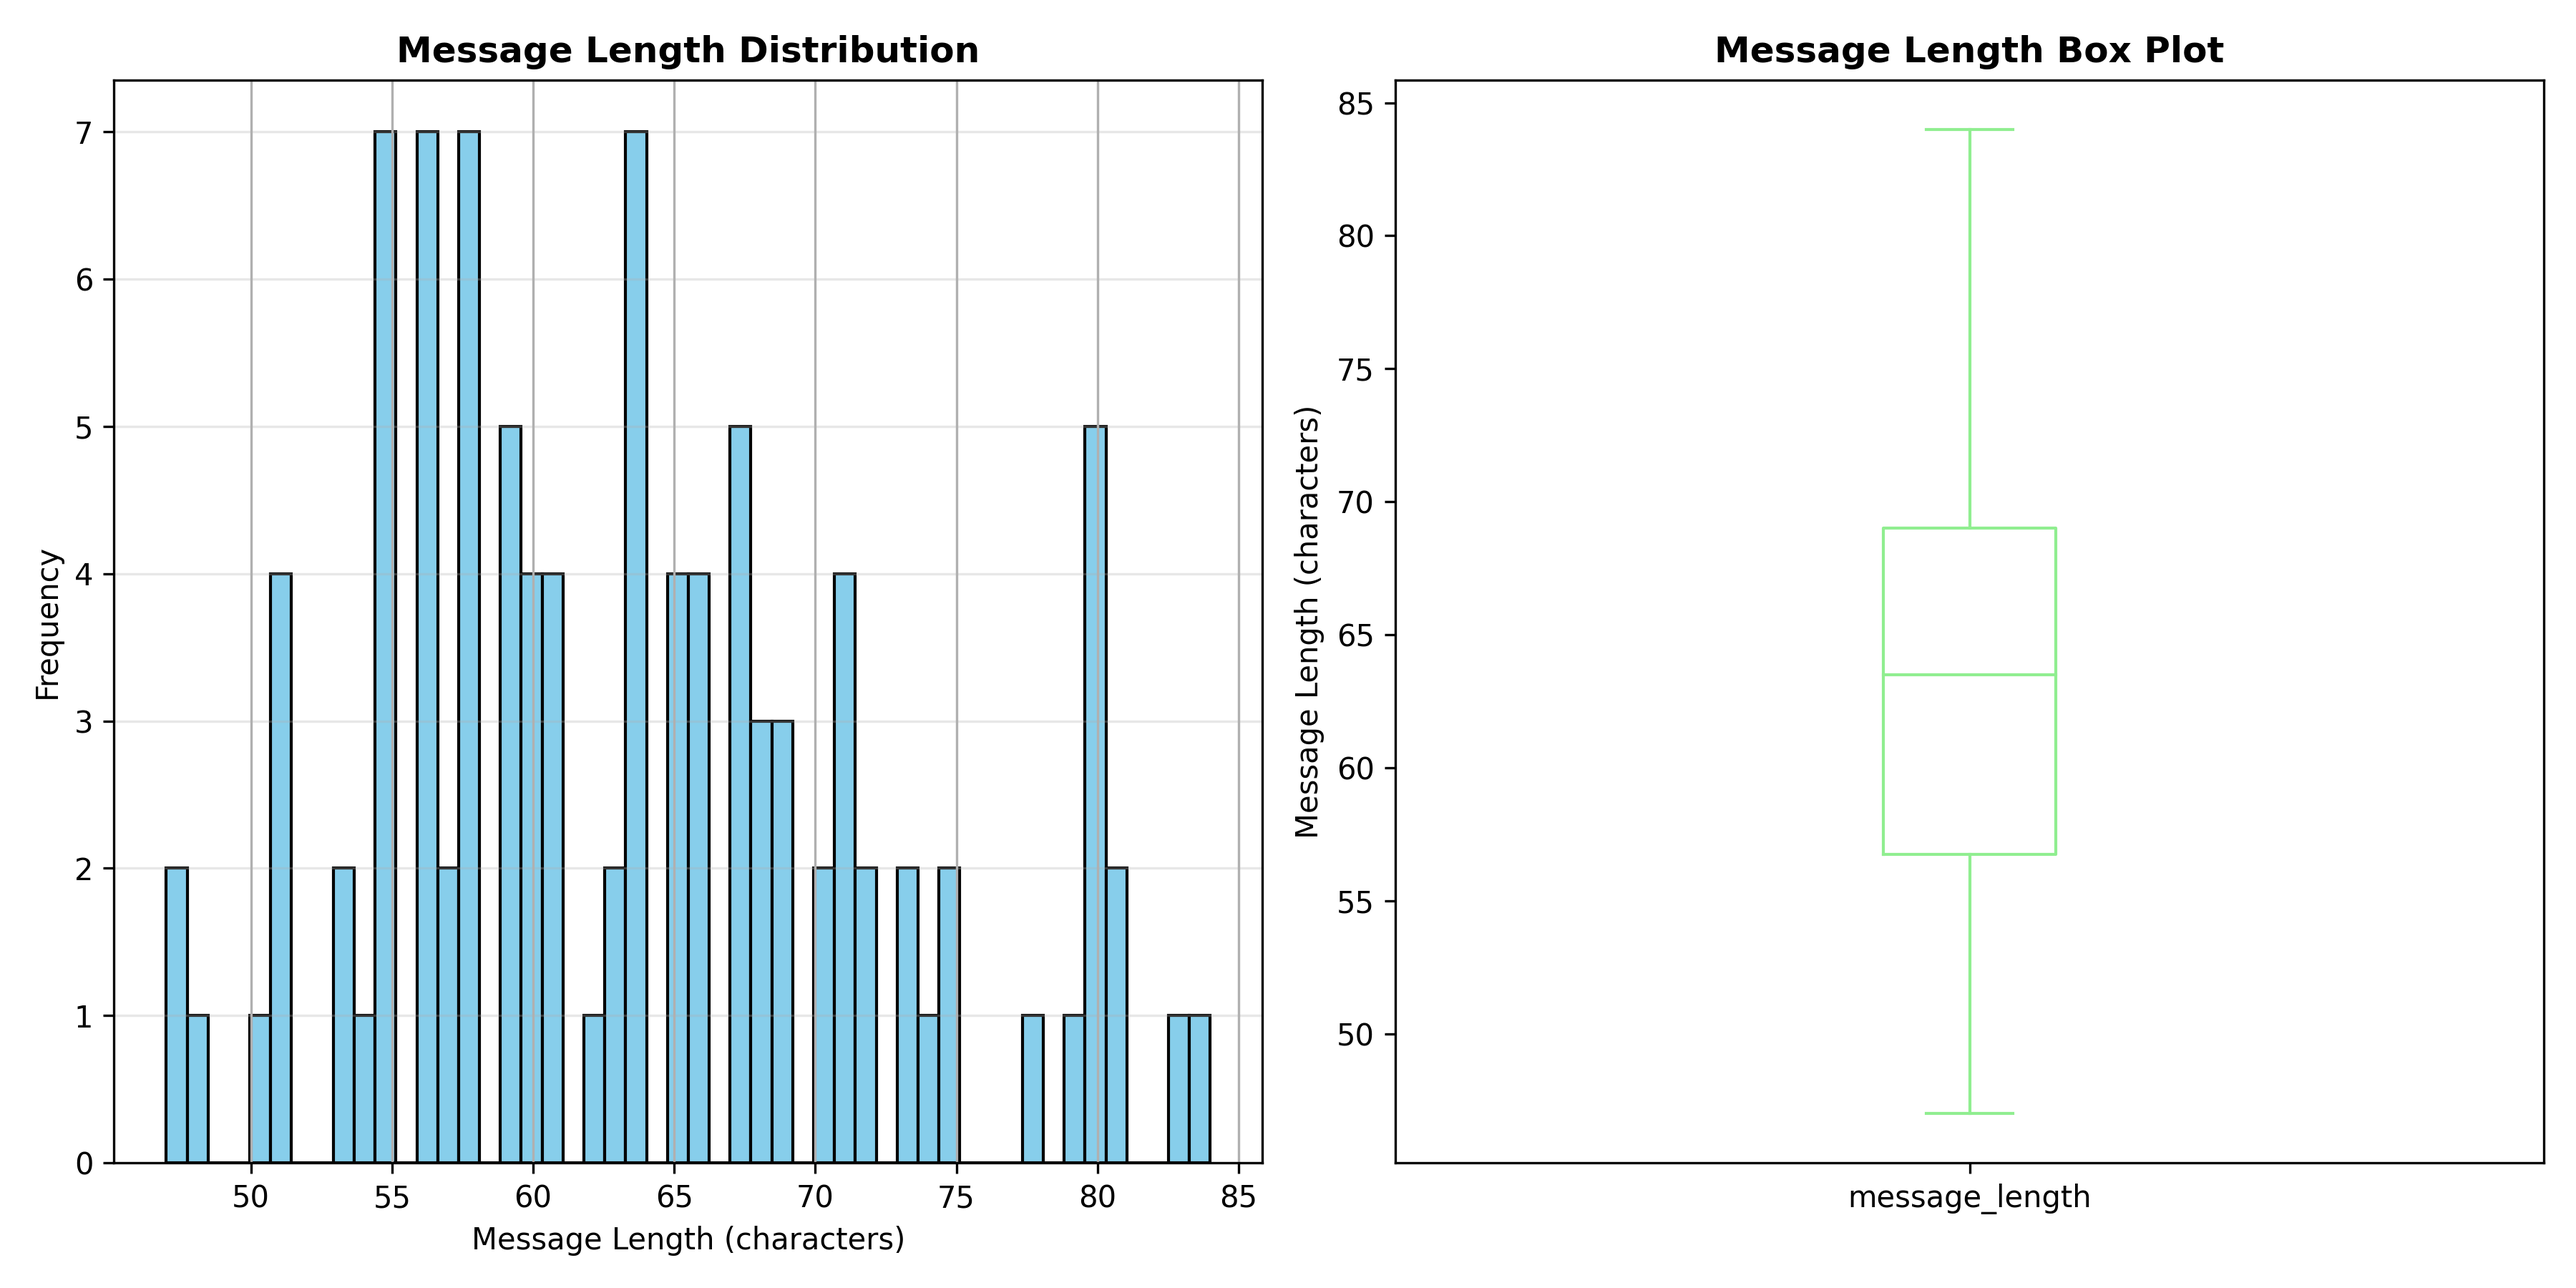
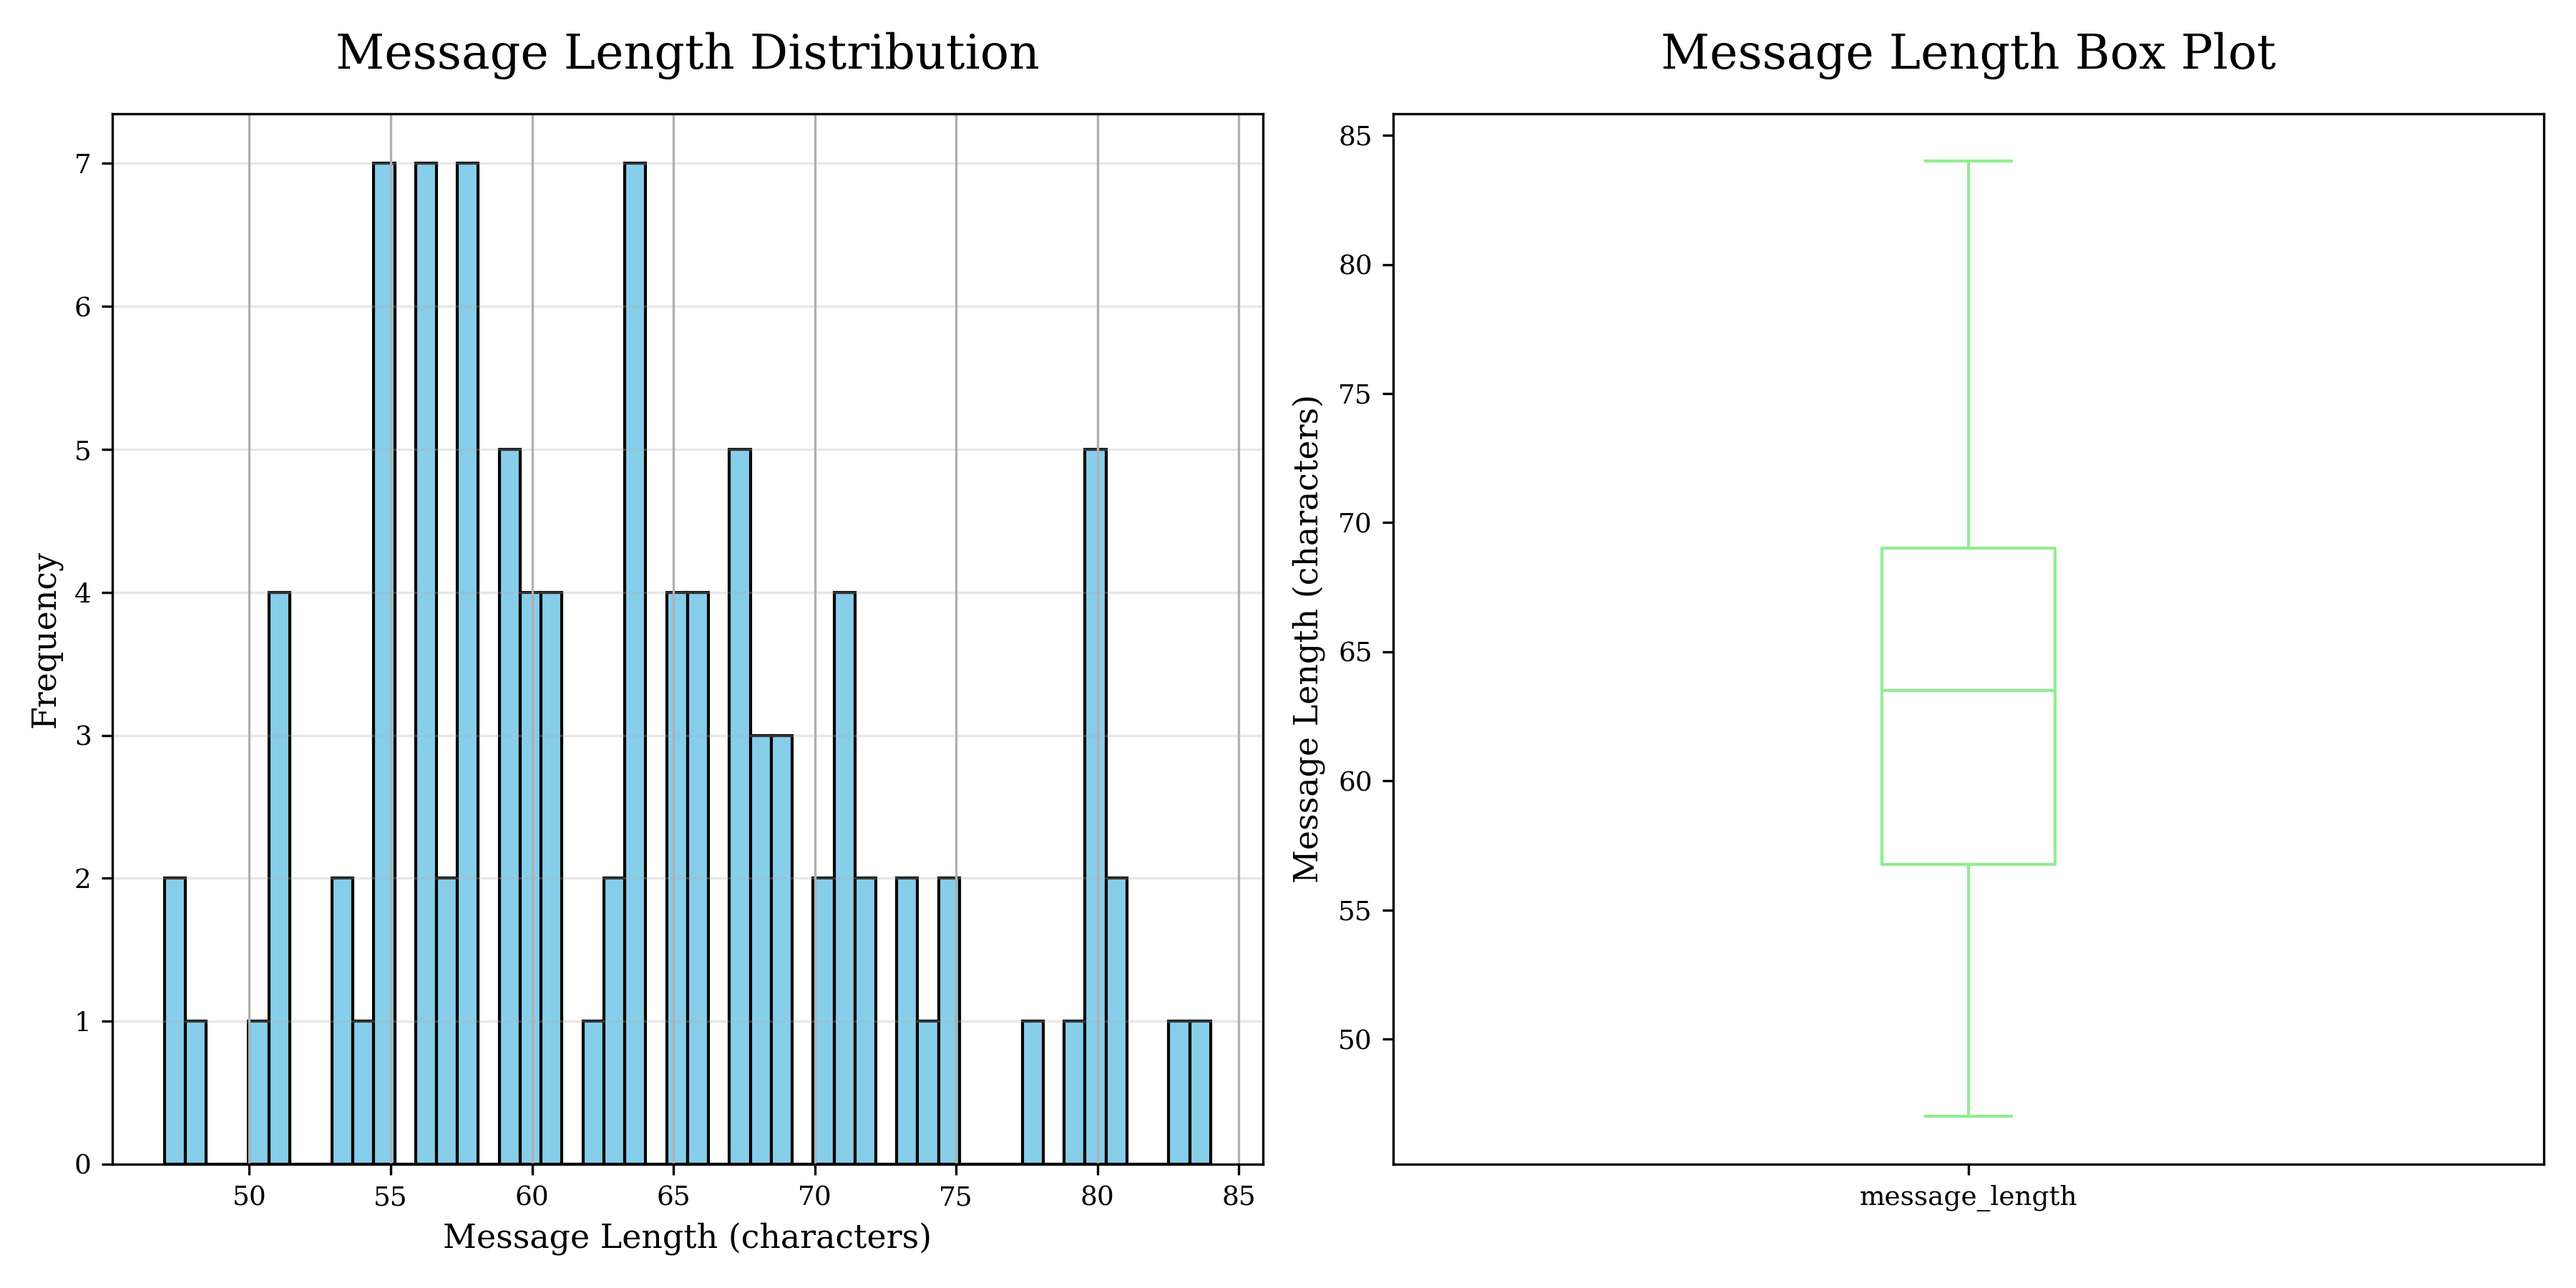
added EDA to README

diff --git a/app/exploratoryDataAnalysis/eda.py b/app/exploratoryDataAnalysis/eda.py
@@ -3,8 +3,8 @@ import pandas as pd
 import matplotlib.pyplot as plt
 import seaborn as sns
 from datetime import datetime, timezone
-from collections import Counter
 import os
+from wordcloud import WordCloud
 
 # Create output directory for charts
 os.makedirs("analysis_output", exist_ok=True)
@@ -54,7 +54,7 @@ add_text(df.describe(include='all').to_string())
 # null value analysis
 add_section("NULL VALUE ANALYSIS")
 
-null_counts = df.isnull().sum()  # <-- DEFINED HERE
+null_counts = df.isnull().sum()
 null_percentages = (df.isnull().sum() / len(df) * 100).round(2)
 null_df = pd.DataFrame({
     'Column': null_counts.index,
@@ -64,34 +64,21 @@ null_df = pd.DataFrame({
 add_text(null_df.to_string())
 
 # null value visualizations
-if null_counts.sum() > 0:  # <-- USED HERE (should work)
+if null_counts.sum() > 0:
     plt.figure(figsize=(10, 6))
     null_percentages.plot(kind='bar', color='salmon')
-    plt.title('Percentage of Null Values by Column', fontsize=14, fontweight='bold')
-    plt.xlabel('Column')
-    plt.ylabel('Null Percentage (%)')
-    plt.xticks(rotation=45, ha='right')
+    plt.title('Percentage of Null Values by Column', fontsize=18, fontweight='normal', 
+            fontfamily='serif', pad=20)
+    plt.xlabel('Column', fontsize=12, fontfamily='serif')
+    plt.ylabel('Null Percentage (%)', fontsize=12, fontfamily='serif')
+    plt.xticks(rotation=45, ha='right', fontfamily='serif', fontsize=10)
+    plt.yticks(fontfamily='serif', fontsize=10)
     plt.tight_layout()
     plt.savefig('analysis_output/null_values.png', dpi=300)
     plt.close()
     add_text("\n📊 Chart saved: analysis_output/null_values.png\n")
 else:
-    add_text("\n✅ No null values present - no null percentage chart needed.\n")
-
-# missing value stats
-add_section("EMPTY OR WHITESPACE VALUES")
-
-empty_stats = {}
-for col in df.columns:
-    if df[col].dtype == 'object':
-        empty_count = df[col].str.strip().eq('').sum()
-        empty_stats[col] = {
-            'Empty Count': empty_count,
-            'Empty Percentage': round(empty_count / len(df) * 100, 2)
-        }
-
-empty_df = pd.DataFrame(empty_stats).T
-add_text(empty_df.to_string())
+    add_text("\n✅ No null values present.\n")
 
 # analysis of message details
 add_section("MESSAGE LENGTH DETAILS")
@@ -103,17 +90,25 @@ add_text(length_stats.to_string())
 
 # message length distribution
 plt.figure(figsize=(12, 6))
+
 plt.subplot(1, 2, 1)
 df['message_length'].hist(bins=50, color='skyblue', edgecolor='black')
-plt.title('Message Length Distribution', fontweight='bold')
-plt.xlabel('Message Length (characters)')
-plt.ylabel('Frequency')
+plt.title('Message Length Distribution', fontsize=16, fontweight='normal', 
+          fontfamily='serif', pad=15)
+plt.xlabel('Message Length (characters)', fontsize=11, fontfamily='serif')
+plt.ylabel('Frequency', fontsize=11, fontfamily='serif')
+plt.xticks(fontfamily='serif', fontsize=9)
+plt.yticks(fontfamily='serif', fontsize=9)
 plt.grid(axis='y', alpha=0.3)
 
 plt.subplot(1, 2, 2)
 df['message_length'].plot(kind='box', color='lightgreen')
-plt.title('Message Length Box Plot', fontweight='bold')
-plt.ylabel('Message Length (characters)')
+plt.title('Message Length Box Plot', fontsize=16, fontweight='normal', 
+          fontfamily='serif', pad=15)
+plt.ylabel('Message Length (characters)', fontsize=11, fontfamily='serif')
+plt.xticks(fontfamily='serif', fontsize=9)
+plt.yticks(fontfamily='serif', fontsize=9)
+
 plt.tight_layout()
 plt.savefig('analysis_output/message_length.png', dpi=300)
 plt.close()
@@ -135,14 +130,37 @@ add_text(top_users.to_string())
 # user activity chart
 plt.figure(figsize=(12, 6))
 top_users.plot(kind='barh', color='coral')
-plt.title('Top 10 Most Active Users', fontsize=14, fontweight='bold')
-plt.xlabel('Number of Messages')
-plt.ylabel('User Name')
+plt.title('Top 10 Most Active Users', fontsize=18, fontweight='normal', 
+          fontfamily='serif', pad=20)
+plt.xlabel('Number of Messages', fontsize=12, fontfamily='serif')
+plt.ylabel('User Name', fontsize=12, fontfamily='serif')
+plt.xticks(fontfamily='serif', fontsize=10)
+plt.yticks(fontfamily='serif', fontsize=10)
 plt.gca().invert_yaxis()
 plt.tight_layout()
 plt.savefig('analysis_output/top_users.png', dpi=300)
 plt.close()
 add_text("\n📊 Chart saved: analysis_output/top_users.png\n")
+
+# Word cloud
+add_section("COMMON WORDS IN MESSAGES")
+
+# Combine all messages
+all_text = ' '.join(df['message'].values)
+
+# Generate word cloud
+wordcloud = WordCloud(width=1200, height=600, background_color='white', 
+                      colormap='viridis', relative_scaling=0.5).generate(all_text)
+
+plt.figure(figsize=(14, 7))
+plt.imshow(wordcloud, interpolation='bilinear')
+plt.axis('off')
+plt.title('Most Common Words in Messages', fontsize=18, fontweight='normal', 
+          fontfamily='serif', pad=20)
+plt.tight_layout()
+plt.savefig('analysis_output/word_cloud.png', dpi=300)
+plt.close()
+add_text("\n📊 Chart saved: analysis_output/word_cloud.png\n")
 
 # user id consistency check
 add_section("USER ID CONSISTENCY ANALYSIS")
@@ -165,8 +183,12 @@ add_section("TIMESTAMP ANALYSIS")
 # convert timestamps
 df['timestamp_parsed'] = pd.to_datetime(df['timestamp'], errors='coerce')
 
-# check for invalid timestamps
-now = datetime.now(timezone.utc)
+# Make timestamps timezone-naive if they have timezone info
+if df['timestamp_parsed'].dt.tz is not None:
+    df['timestamp_parsed'] = df['timestamp_parsed'].dt.tz_localize(None)
+
+# check for future timestamps
+now = datetime.now()
 future_count = (df['timestamp_parsed'] > now).sum()
 add_text(f"Messages with future timestamps: {future_count}")
 
@@ -179,16 +201,69 @@ if not df['timestamp_parsed'].isnull().all():
     daily_counts = df.groupby('date').size()
     
     plt.figure(figsize=(14, 6))
-    daily_counts.plot(kind='line', color='mediumpurple', linewidth=2)
-    plt.title('Messages Over Time', fontsize=14, fontweight='bold')
-    plt.xlabel('Date')
-    plt.ylabel('Number of Messages')
-    plt.xticks(rotation=45)
+    daily_counts.plot(kind='line', color='mediumpurple', linewidth=3.5)
+    
+    plt.title('Messages by Day', fontsize=18, fontweight='normal', 
+              fontfamily='serif', pad=20)
+    plt.xlabel('Date', fontsize=12, fontfamily='serif')
+    plt.ylabel('Number of Messages', fontsize=12, fontfamily='serif')
+    plt.xticks(rotation=45, fontfamily='serif', fontsize=10)
+    plt.yticks(fontfamily='serif', fontsize=10)
+    
+    # Force y-axis to show only integers
+    plt.gca().yaxis.set_major_locator(plt.MaxNLocator(integer=True))
+    
     plt.grid(alpha=0.3)
     plt.tight_layout()
     plt.savefig('analysis_output/messages_over_time.png', dpi=300)
     plt.close()
     add_text("\n📊 Chart saved: analysis_output/messages_over_time.png\n")
+
+# User activity patterns - CREATE THE COLUMNS HERE FIRST
+add_section("USER ACTIVITY PATTERNS")
+
+# Extract day of week and hour - MUST BE BEFORE USING THEM
+df['day_of_week'] = df['timestamp_parsed'].dt.day_name()
+df['hour'] = df['timestamp_parsed'].dt.hour
+
+# Messages by day of week
+day_order = ['Monday', 'Tuesday', 'Wednesday', 'Thursday', 'Friday', 'Saturday', 'Sunday']
+day_counts = df['day_of_week'].value_counts().reindex(day_order, fill_value=0)
+
+plt.figure(figsize=(10, 6))
+day_counts.plot(kind='bar', color='steelblue')
+plt.title('Message Distribution by Day of Week', fontsize=18, fontweight='normal', 
+          fontfamily='serif', pad=20)
+plt.xlabel('Day of Week', fontsize=12, fontfamily='serif')
+plt.ylabel('Number of Messages', fontsize=12, fontfamily='serif')
+plt.xticks(rotation=45, ha='right', fontfamily='serif', fontsize=10)
+plt.yticks(fontfamily='serif', fontsize=10)
+plt.gca().yaxis.set_major_locator(plt.MaxNLocator(integer=True))
+plt.tight_layout()
+plt.savefig('analysis_output/day_of_week.png', dpi=300)
+plt.close()
+add_text("\n📊 Chart saved: analysis_output/day_of_week.png\n")
+
+# Messages by hour - NOW HOUR EXISTS
+hour_counts = df['hour'].value_counts().sort_index()
+
+plt.figure(figsize=(12, 6))
+hour_counts.plot(kind='line', color='darkgreen', linewidth=3.5, marker='o')
+plt.title('Message Activity by Hour of Day', fontsize=18, fontweight='normal', 
+          fontfamily='serif', pad=20)
+plt.xlabel('Hour of Day (24-hour format)', fontsize=12, fontfamily='serif')
+plt.ylabel('Number of Messages', fontsize=12, fontfamily='serif')
+plt.xticks(range(0, 24), fontfamily='serif', fontsize=10)
+plt.yticks(fontfamily='serif', fontsize=10)
+plt.gca().yaxis.set_major_locator(plt.MaxNLocator(integer=True))
+plt.grid(alpha=0.3)
+plt.tight_layout()
+plt.savefig('analysis_output/hourly_activity.png', dpi=300)
+plt.close()
+add_text("\n📊 Chart saved: analysis_output/hourly_activity.png\n")
+
+add_text(f"\nPeak activity hour: {hour_counts.idxmax()}:00 with {hour_counts.max()} messages")
+add_text(f"Lowest activity hour: {hour_counts.idxmin()}:00 with {hour_counts.min()} messages")
 
 # null value correlations
 add_section("NULL VALUE PATTERN ANALYSIS")
@@ -212,7 +287,9 @@ if null_counts.sum() > 0:
     sns.heatmap(null_corr, annot=True, cmap='coolwarm', center=0, 
                 square=True, linewidths=1, cbar_kws={"shrink": 0.8})
     plt.title('Correlation Between Null Values in Different Columns', 
-              fontsize=12, fontweight='bold')
+            fontsize=16, fontweight='normal', fontfamily='serif', pad=20)
+    plt.xticks(fontfamily='serif', fontsize=9)
+    plt.yticks(fontfamily='serif', fontsize=9)
     plt.tight_layout()
     plt.savefig('analysis_output/null_correlation.png', dpi=300)
     plt.close()
@@ -267,8 +344,9 @@ print(f"\n📄 Full report saved to: analysis_output/data_analysis_report.txt")
 print(f"📊 Charts saved to: analysis_output/")
 print("\nGenerated files:")
 print("  - data_analysis_report.txt")
-print("  - null_values.png")
 print("  - message_length.png")
 print("  - top_users.png")
+print("  - word_cloud.png")
 print("  - messages_over_time.png")
-print("  - null_correlation.png")
+print("  - day_of_week.png")
+print("  - hourly_activity.png")
